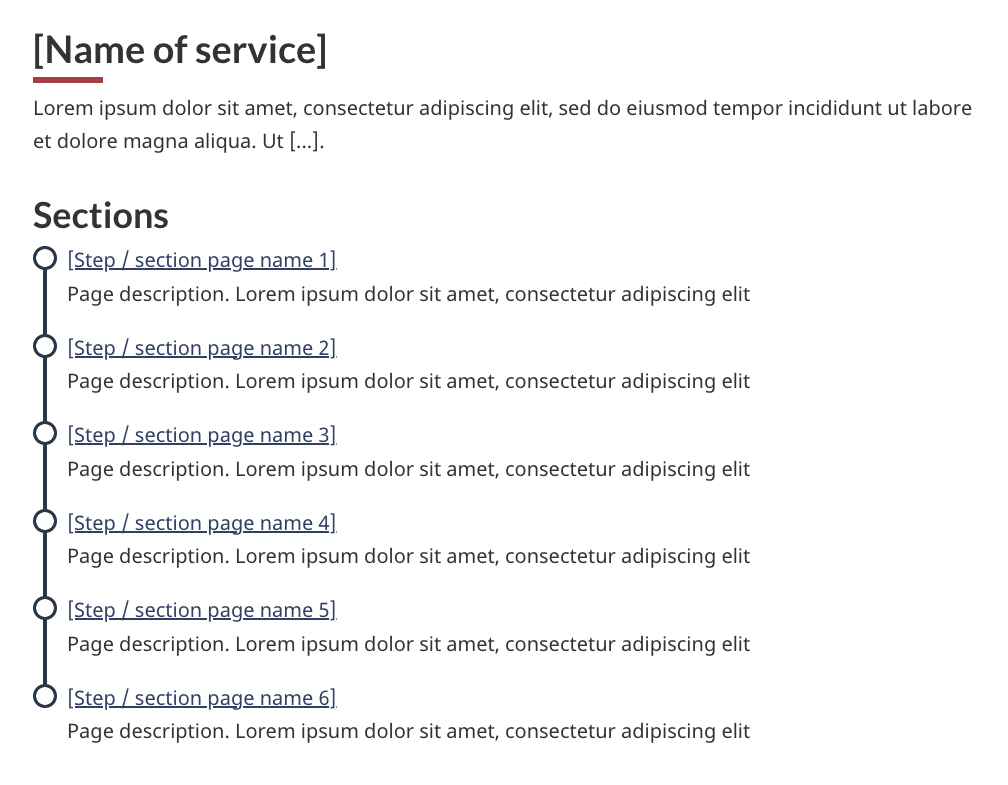
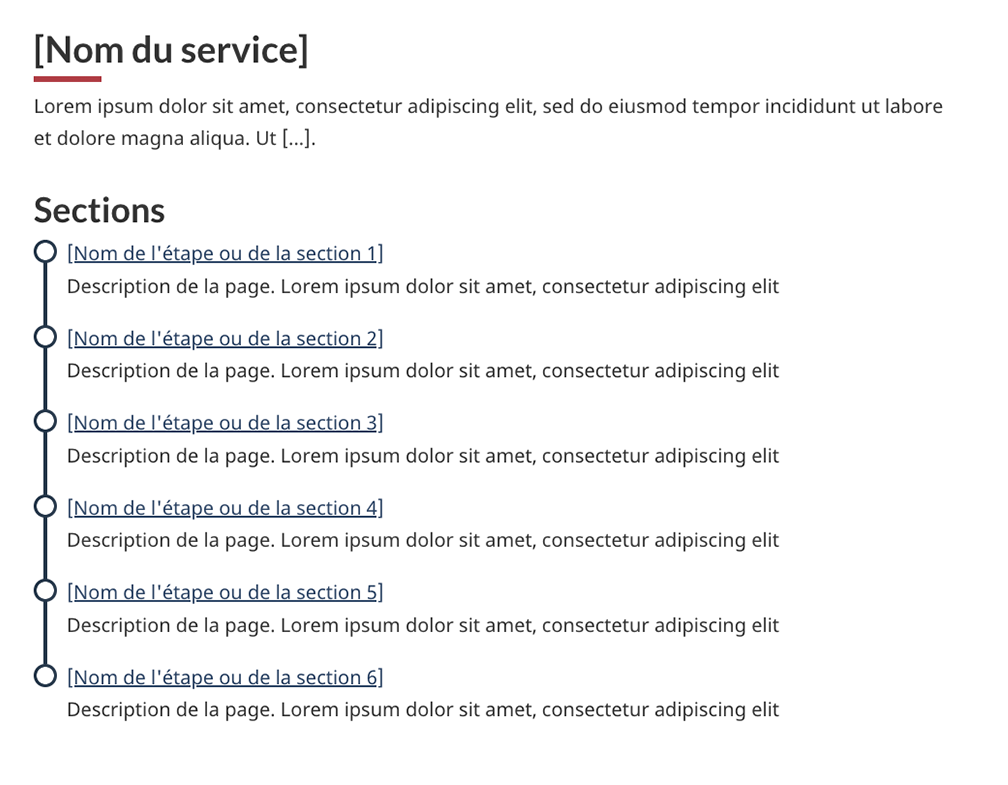
img

Changed region(s): [[0.0308, 0.2446, 0.7688, 0.9478], [0.0308, 0.1223, 0.9534, 0.214], [0.0308, 0.0306, 0.3383, 0.0917]]

diff --git a/configurations-conception-communes/navigation-metro.html b/configurations-conception-communes/navigation-metro.html
@@ -124,7 +124,7 @@ iframe {
       <ol class="breadcrumb">
         <li><a href="https://www.canada.ca/fr.html">Canada.ca</a></li>
         <li><a href="https://www.canada.ca/fr/gouvernement/a-propos.html">À propos de Canada.ca</a></li>
-        <li><a href="https://www.canada.ca/fr/gouvernement/a-propos/systeme-conception.html">Système de conception de Canada.ca</a></li>
+        <li><a href="https://www.canada.ca/fr/gouvernement/a-propos/systeme-conception.html">Conception</a></li>
         <li><a href="https://www.canada.ca/fr/gouvernement/a-propos/systeme-conception/bibliotheque-modeles.html">Bibliothèque de modèles et de configurations de conception</a></li>
       </ol>
     </div>
@@ -133,7 +133,7 @@ iframe {
 
 <!--/* Hide Nav; Hide Right Rail /*-->
 <main role="main" property="mainContentOfPage" class="container wb-prettify all-pre">
-<h1 property="name" id="wb-cont" dir="ltr"><span class="stacked"><span>Navigation de style métro</span>: <span>Système de conception de Canada.ca</span></span></h1>
+<h1 property="name" id="wb-cont" dir="ltr"><span class="stacked"><span>Navigation de style métro</span>: <span>Conception de Canada.ca</span></span></h1>
 <div class="row">
   <div class="col-md-12 pull-left">
     <ul class="list-inline small mrgn-bttm-sm" style="line-height:1.65em" id="list-inline-desktop-only">
@@ -174,8 +174,34 @@ iframe {
 <h3>Page d'index</h3>
 <p><strong>Quand utiliser cette variante&nbsp;:</strong> Utilisez comme page d'accueil pour un ensemble de pages connexes qui utilisent la navigation de style métro.</p>
 
+<figure>
+  <img alt="Une longue description peut être trouvée après l'image." class="img-responsive border" src="../images/index-page-fr.png">
+   </figure>
+<details>
+  <summary>Long description of index page:</summary>
+  <p>An introduction block followed by a vertical list of navigation steps arranged in sequential order.</p>
+  <ul>
+    <li>The H1 is [Name of service] followed by a brief paragraph of placeholder text.</li>
+    <li>Below that, there’s a heading labeled Sections.</li>
+    <li>Below is a list that contains six steps, each joined by a circular icon connected by a vertical line.</li>
+    <li>Each step has a hyperlink with placeholder text such as [Step / section page name 1] through  [Step / section page name 6] followed by a one line description beneath it, also using placeholder text.</li>
+  </ul>
+</details>
 <h3>Page d'étape</h3>
 <p><strong>Quand utiliser cette variante :</strong> Utilisez sur chaque page liée par la navigation de style métro.</p>
+<figure>
+  <img alt="Une longue description peut être trouvée après l'image." class="img-responsive border" src="../images/step-page-fr.png">
+   </figure>
+<details>
+  <summary>Long description of step page:</summary>
+  <p>An H1 followed by placeholder page content to the left of the page and navigation to the right of the page in a vertical list.</p>
+  <ul>
+    <li>The H1 is a stacked header. The first line is [Service name] and the second line is [Page 1].</li>
+    <li>Below the H1 is two paragraphs of placeholder text.</li>
+    <li>To the right of the H1 and placeholder text is the navigation. It has a heading labeled Sections.</li>
+    <li>Below the heading, there is a list of six steps or sections arranged vertically. Each step is joined by a circular icon connected by a vertical line, representing the sequence of steps. Each step has a hyperlink with placeholder text such as [Page 1] through [Page 6].</li>
+  </ul>
+</details>
 
 <h3>Référence pour la mise en œuvre du thème GCWeb (BOEW)</h3>
 <p>La référence à l’implémentation explique la façon de configurer chaque élément de la page GC Métro.</p>
